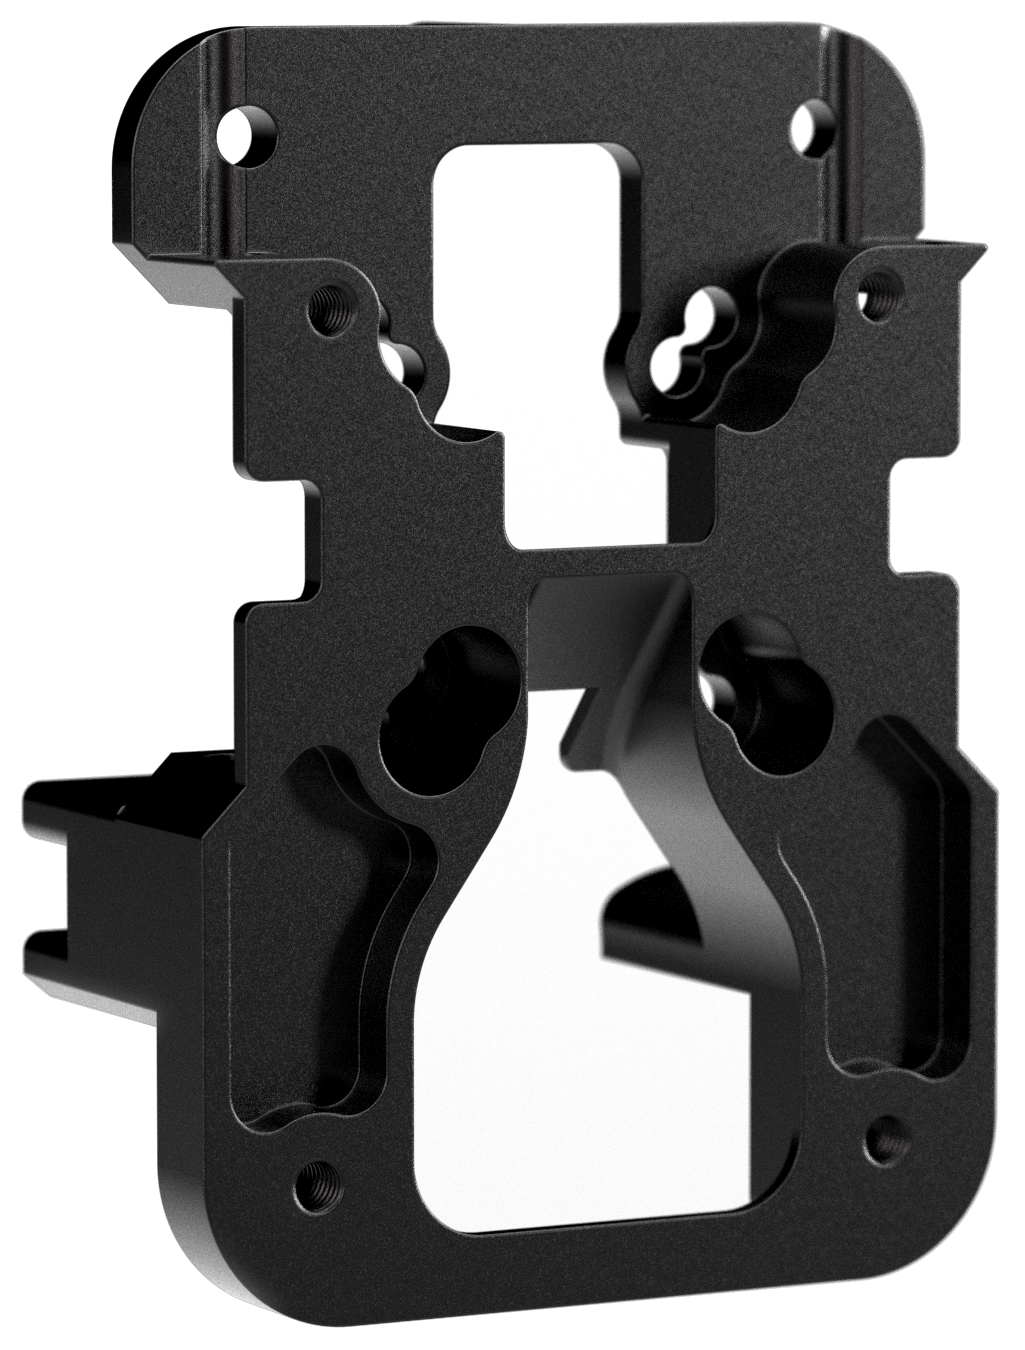
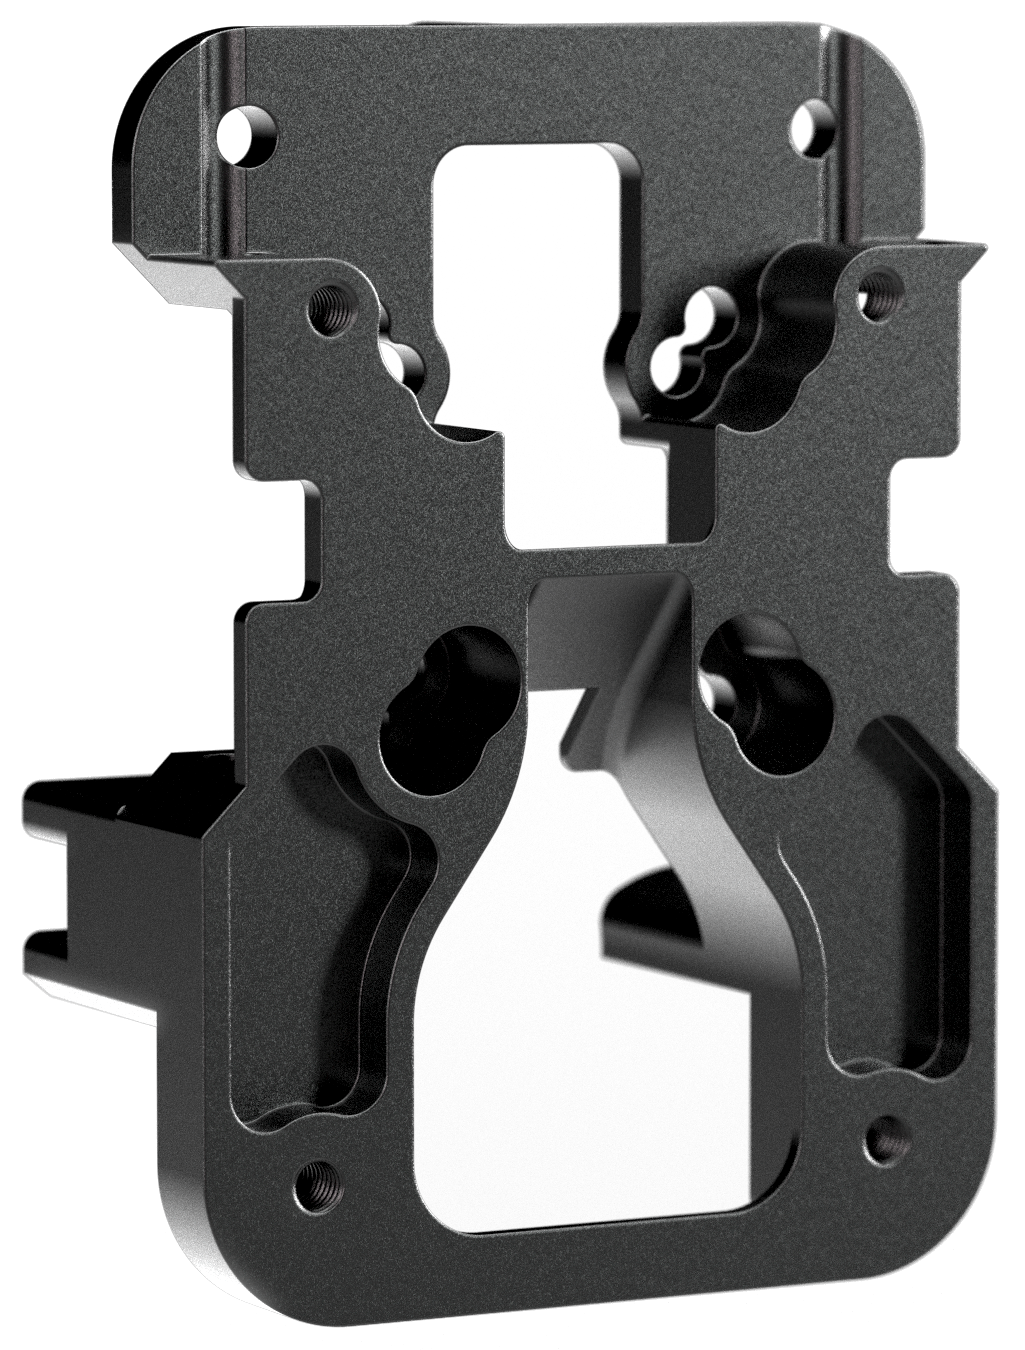
lighten renders

diff --git a/README.md b/README.md
@@ -21,7 +21,7 @@ A CNC version of the original Xol-Carriage that can be found in the Xol GitHub r
 
 * What is the smaller rectancular piece for? `That is a spacer to use for MGN9H carrages (unless installing on a printers for ants sized printer). If you don't need it on your printer it makes a cool keyring.`
 
-<br/>
+<img src='docs/images/Xol-Carriage.4.png' height=120 />
 
 ## Tips
 * If you're having trouble getting the pins down through the tubes and into the lower part of the pin slot, loosen the four screws that hold the CNC Xol Carriage to the MGN rail carriage. `This is particularly noticable when using thicker belts like EPDM or GT3 belts.`
